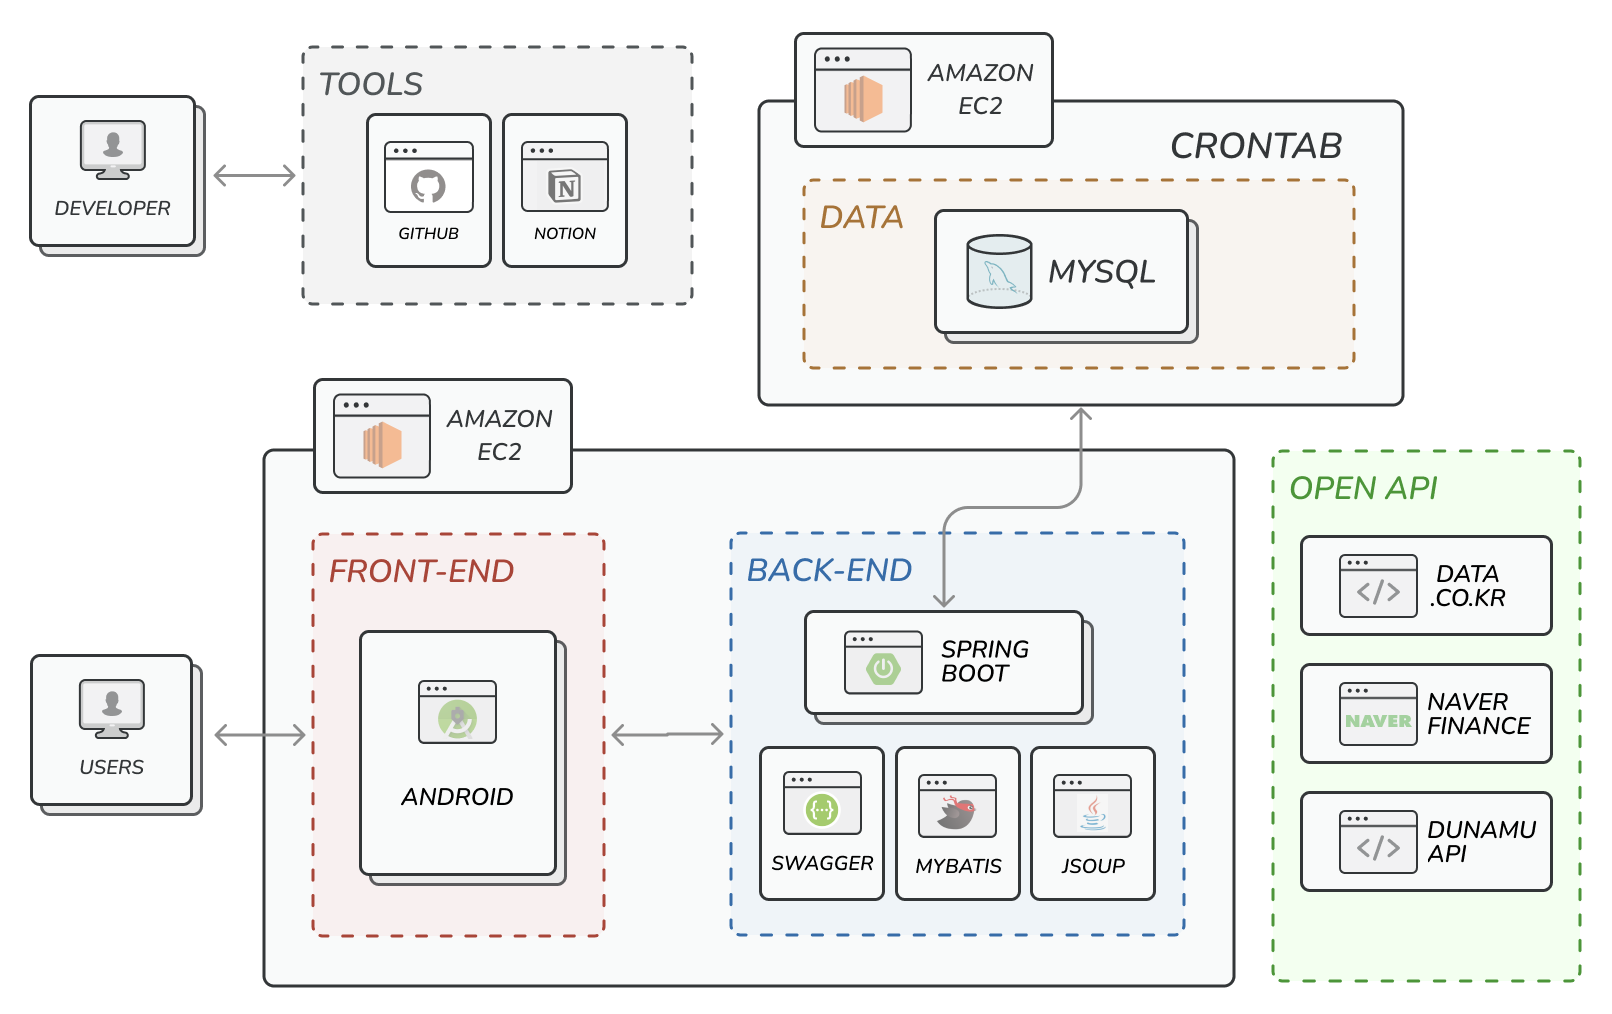
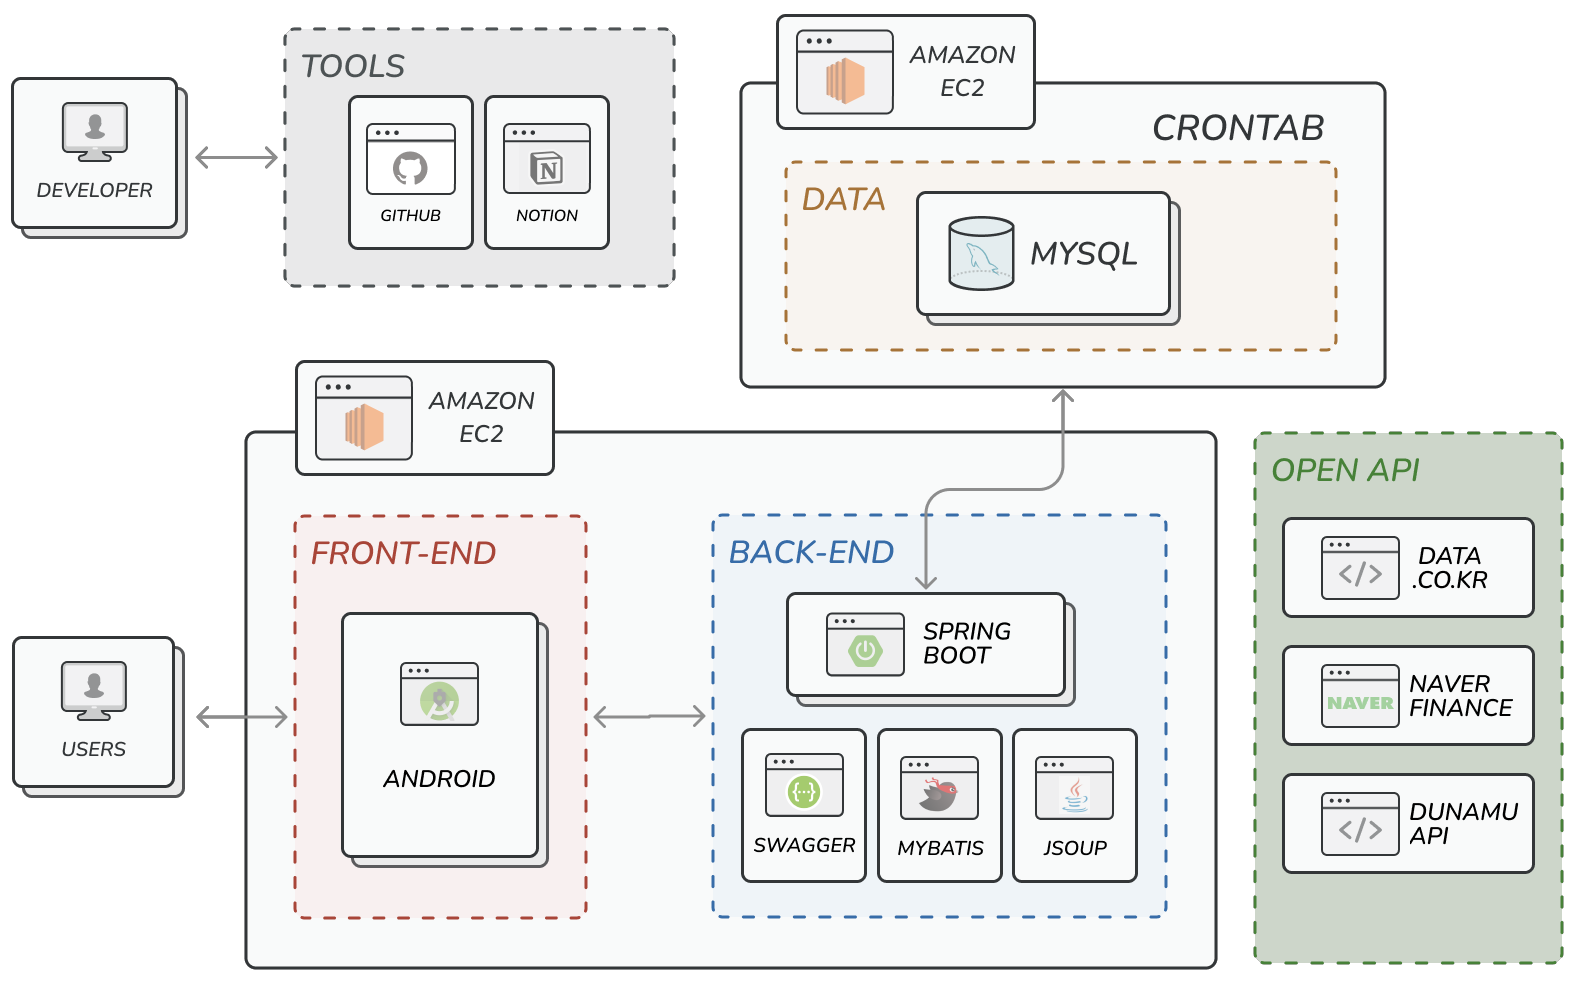
Docs: 아키텍처 배경 투명으로 설정

diff --git a/_posts/2023-07-03-solving-problem-02.md b/_posts/2023-07-03-solving-problem-02.md
@@ -1,0 +1,39 @@
+---
+title: 백준. 오큰수 (17298번)
+date: 2023-07-03 00:00:00 +07:00
+tags: [Algorithm, Group Study, Stack]
+style: fill
+color: warning
+description: 구글링 없이 해결하지 못했던 문제 (2)
+---
+
+1. this unordered seed list will be replaced by toc as unordered list
+{:toc}
+
+### 문제
+- [백준 17298번. 오큰수](https://www.acmicpc.net/problem/17298)
+- 숫자 리스트 A가 주어졌을때 각 인덱스 i에 대해 오른쪽에 있으면서 A[i]보다 큰 수 중에 가장 왼쪽에 있는 수 찾기
+
+### 시간초과 [반복문]
+```python
+import sys
+
+N = int(sys.stdin.readline())
+A = list(map(int, sys.stdin.readline().split()))
+
+for i in range(N):
+
+    for j in range(i+1, N):
+        if A[i] < A[j]:
+            print(A[j], end="")
+            break
+    else:
+        print(-1, end="")
+
+    if i != (N-1):
+        print(" ", end="")
+```
+
+### 성공 [스택]
+```python
+```

diff --git a/_posts/2023-07-02-solving-problem-01.md b/_posts/2023-07-02-solving-problem-01.md
@@ -16,7 +16,7 @@ description: 구글링 없이 해결하지 못했던 문제 (1)
 - [백준 2473번. 세 용액](https://www.acmicpc.net/problem/2473)
 - N개의 숫자가 주어졌을때, 3개의 합이 0에 가장 가까운 숫자 3개를 찾는 문제
 
-### 시간초과
+### 시간초과 [조합]
 ```python
 import sys
 from itertools import combinations
@@ -51,7 +51,7 @@ value.sort()
 print(*value)
 ```
 
-### 성공
+### 성공 [투포인터]
 ```python
 import sys
 
